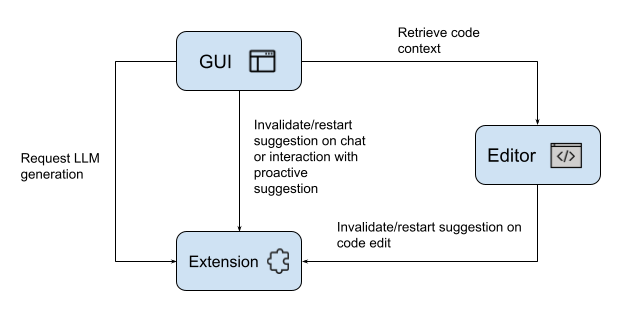
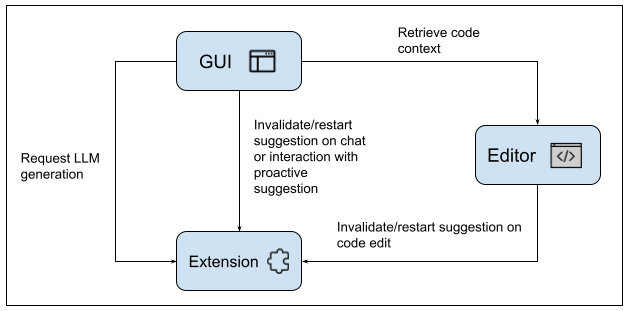
:memo: Fix figure positioning and update diagrams

Changed region(s): [[0.0, 0.955, 0.989, 0.9839], [0.03, 0.0, 0.989, 0.0289]]

diff --git a/README.md b/README.md
@@ -6,16 +6,19 @@ Implementation of [CodingGenie: A Proactive LLM-Powered Programming Assistant]
 
 CodingGenie is an open-source implementation of a proactive assistant integrated into the chat window of Continue, a VSCode coding LLM extension. Proactive suggestions are chat-based suggestions which are suggested autonomously without user prompting, triggered after code changes or chat messages. CodingGenie suggests chat completions based upon several factors, including the code context, optional task description, enabled suggestion types, and previous conversation history. 
 
+<p align="center">
+    <img src="./img/interface_diagram.png" width=700px/>
+</p>
+<p align="center">
+    UI and components of prompting. (A) is a proactive suggestion, (B) is the accept button, (C) is the normal chat interface, and (D) is the normal editor interface.
+</p>
 
-<figure>
-  <img src="./img/interface_diagram.png" width=700px/>
-  <figcaption>UI and components of prompting. (A) is a proactive suggestion, (B) is the accept button, (C) is the normal chat interface, and (D) is the normal editor interface.</figcaption>
-</figure>
-
-<figure>
+<p align="center">
   <img src="./img/system_diagram.png" width=500px/>
-  <figcaption>System diagram</figcaption>
-</figure>
+</p>
+<p align="center">
+    System design
+</p>
 
 ## Getting Started
 